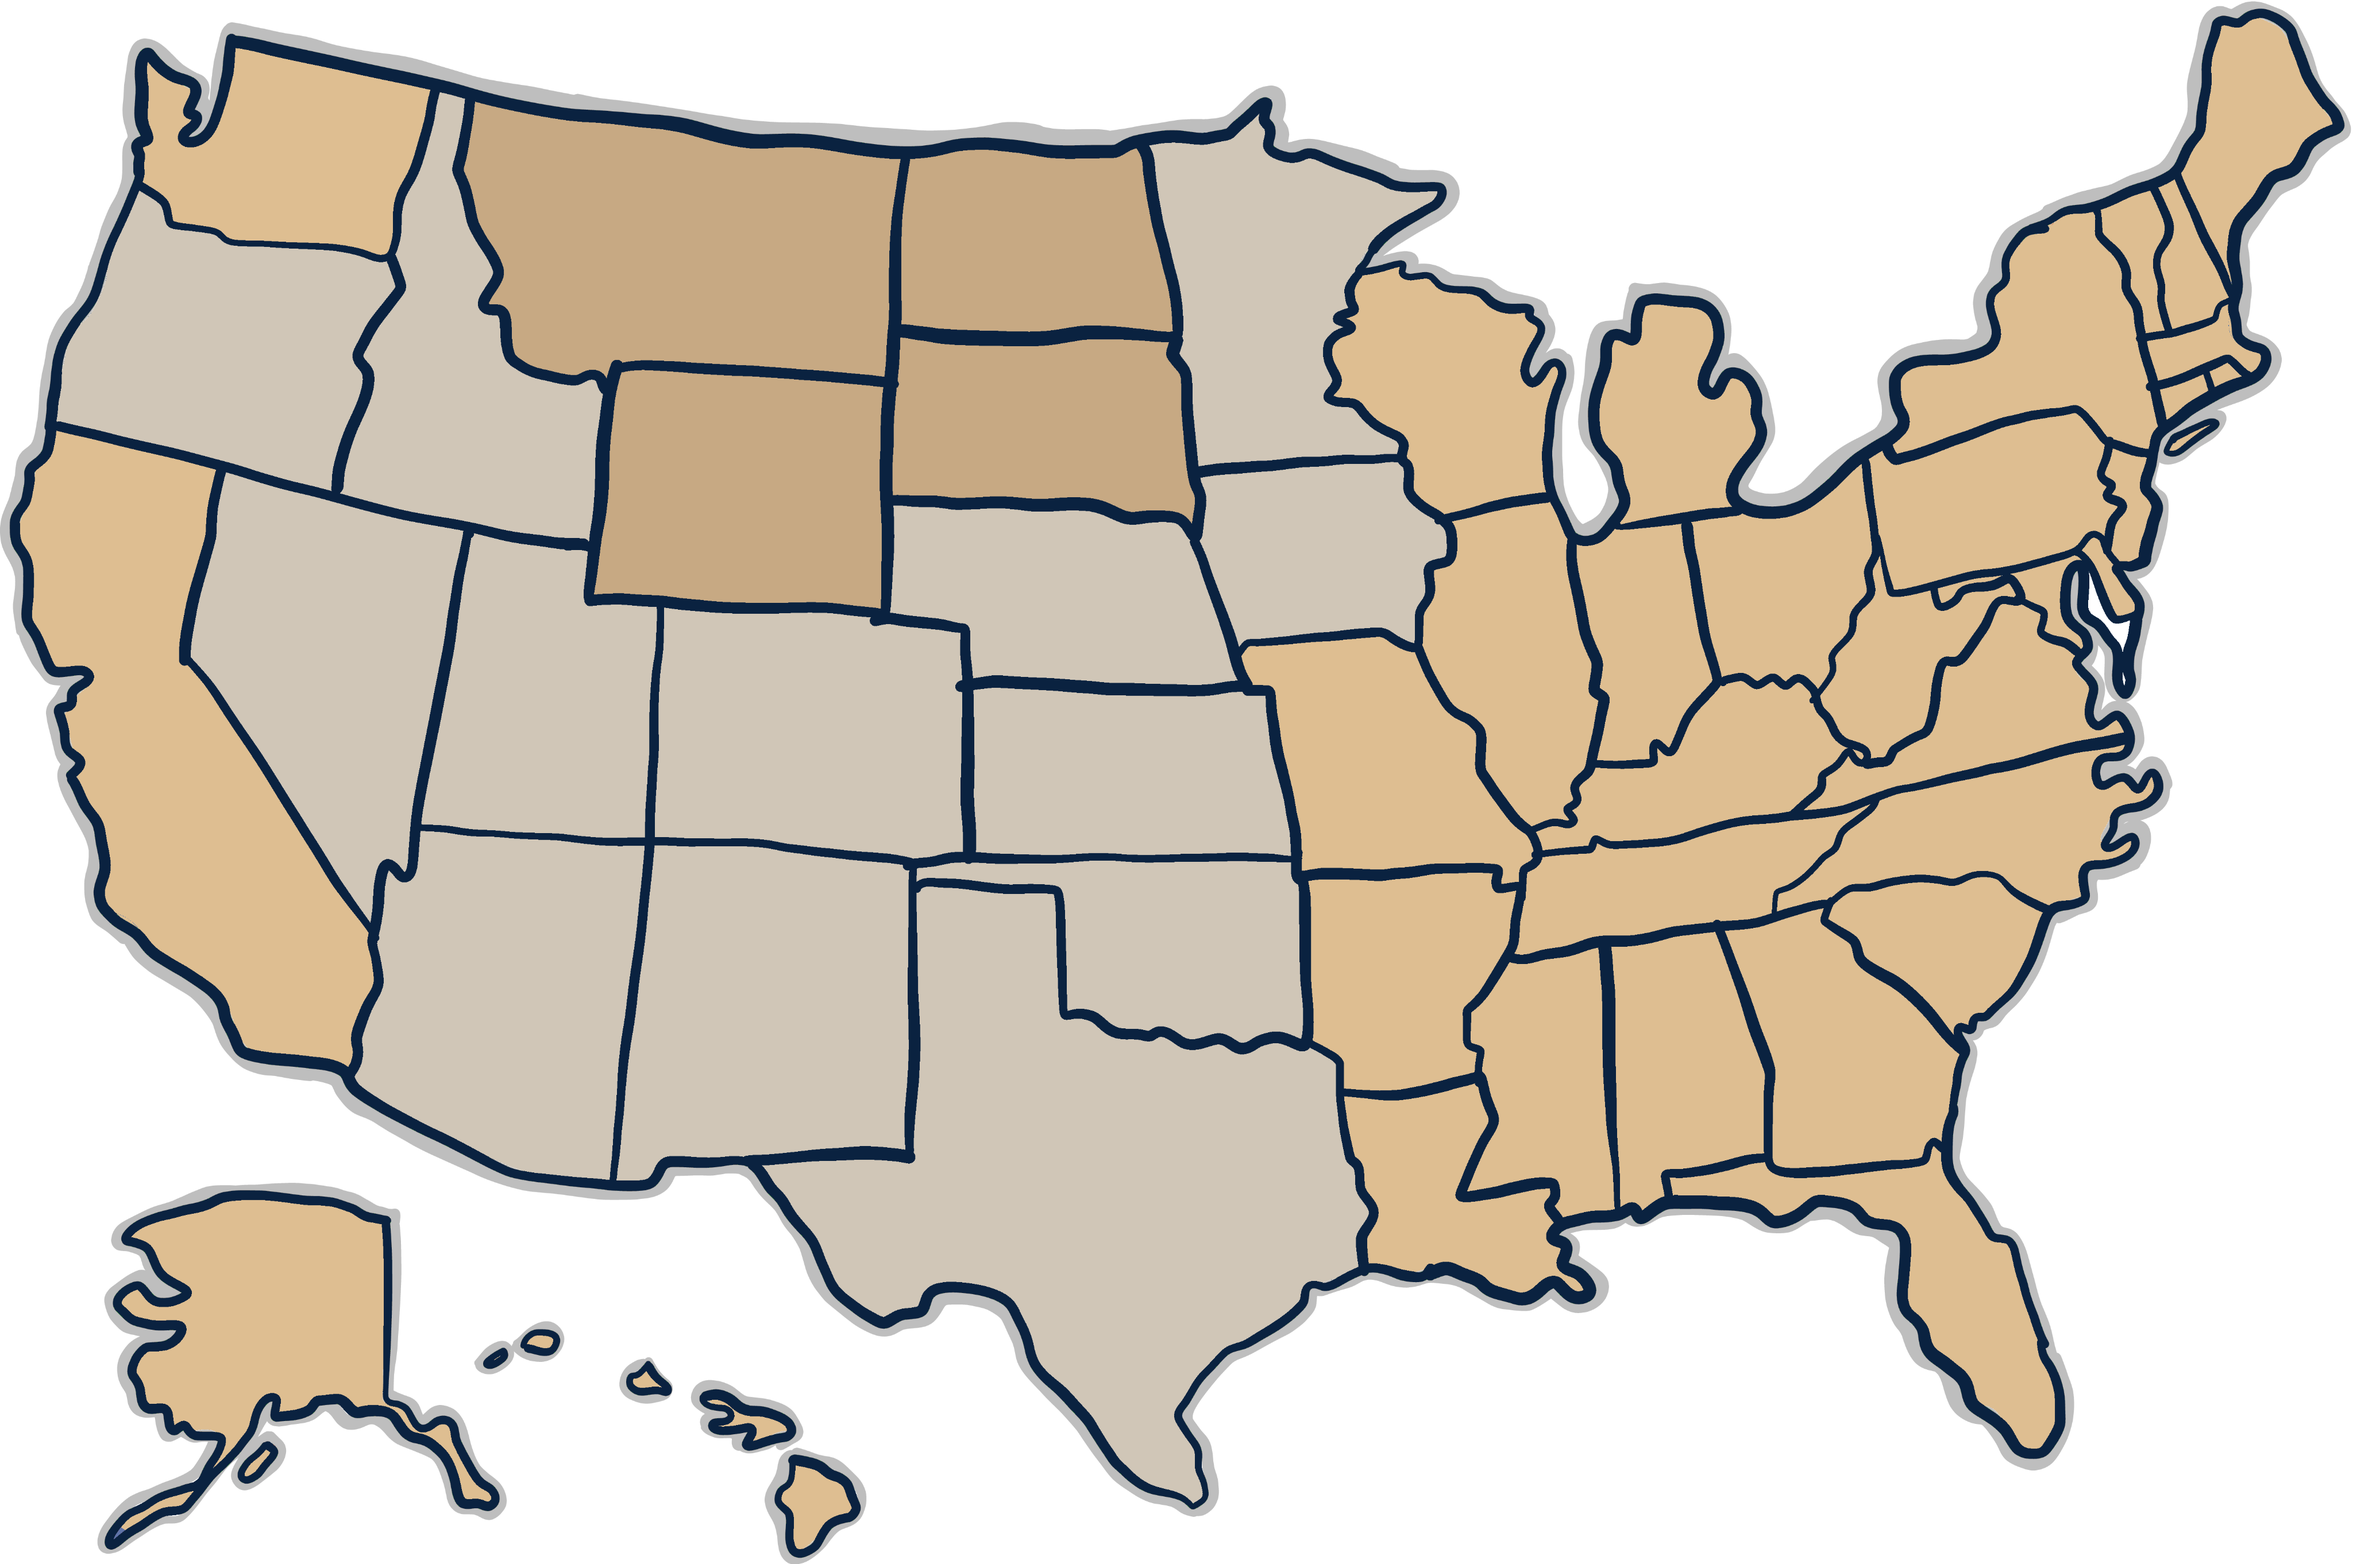
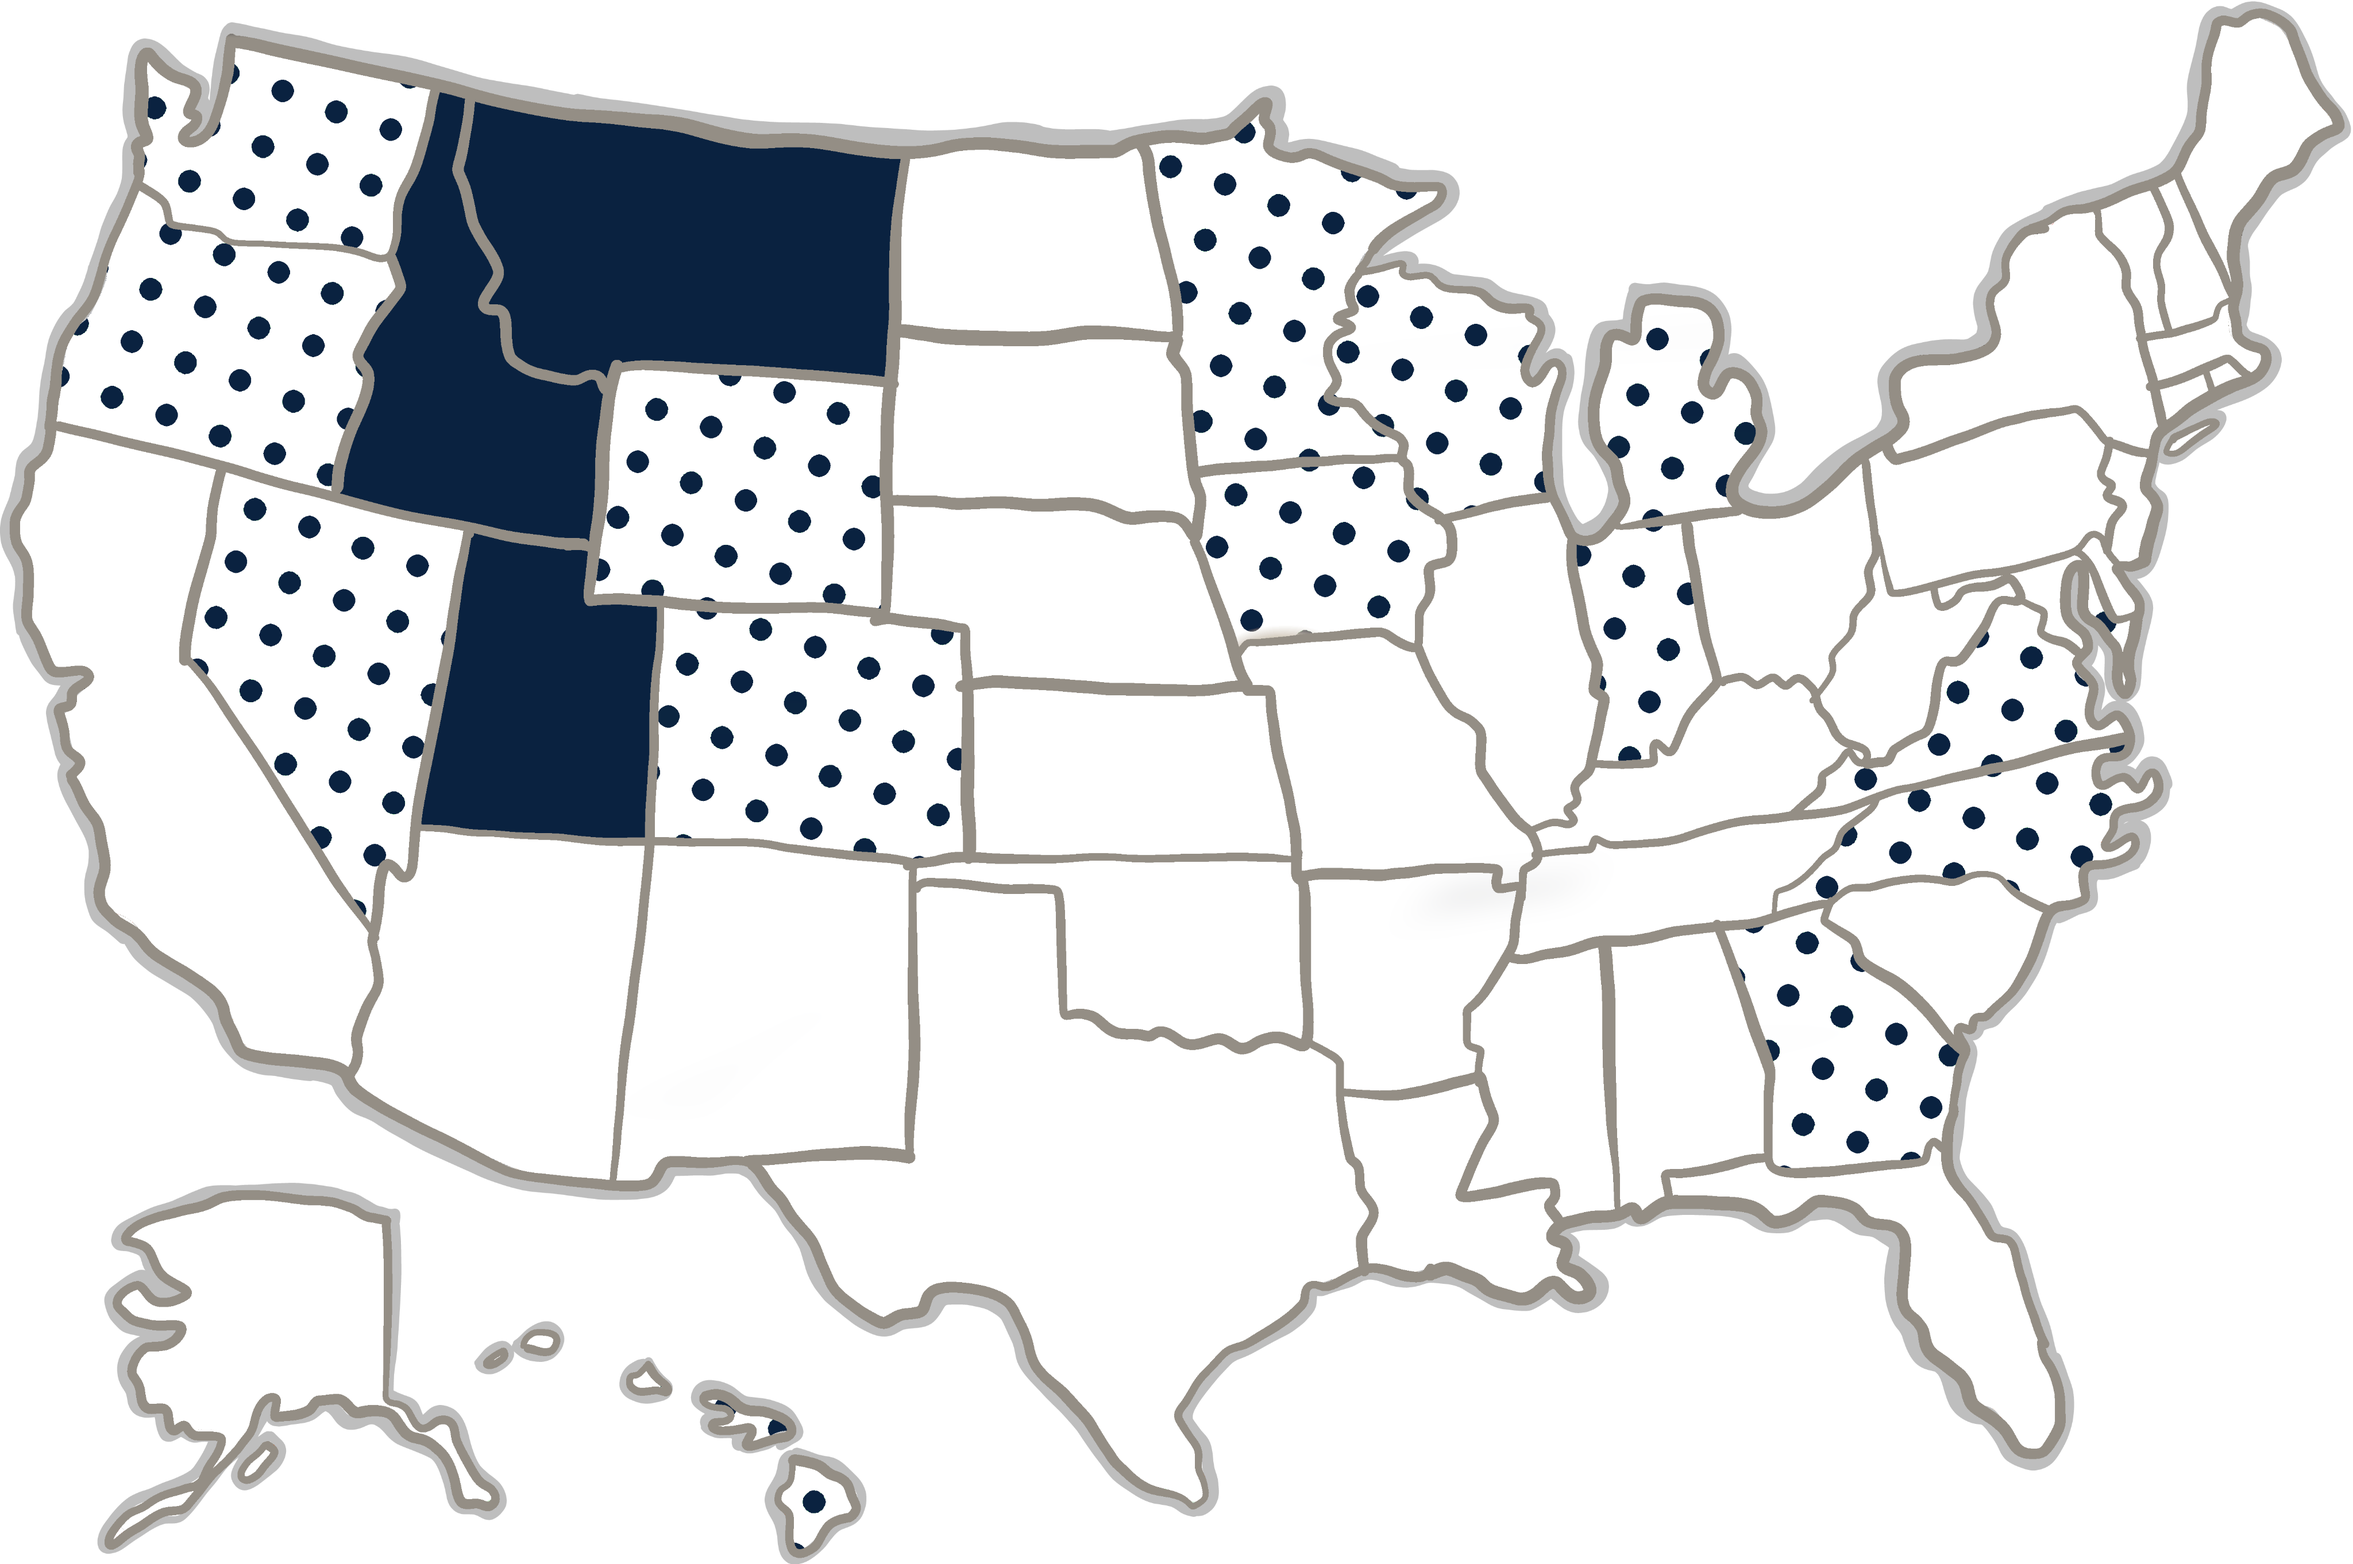
modified background for availability map

diff --git a/app/components/layout/great-harvest-map-section/AvailabilityMapSection.tsx b/app/components/layout/great-harvest-map-section/AvailabilityMapSection.tsx
@@ -18,13 +18,13 @@ export default function AvailabilityMapSection() {
 
 	return (
 		<>
-			<section className="bg-wheat-extra-light  w-full">
+			<section className="bg-[linear-gradient(rgba(0,0,0,0.2),rgba(0,0,0,0.2)),url('/images/wheat-silo.jpg')] bg-no-repeat bg-[left_25%_top_10%] bg-cover w-full">
 				<div className="flex flex-col gap-y-7.5 py-7.5">
 					<div>
-						<h2 className="text-[48px] font-medium text-center text-brand-blue drop-shadow-lg pb-[20px]">
+						<h2 className="text-[48px] font-bold text-center text-brand-blue drop-shadow-lg pb-[20px]">
 							Ripe for Harvesting
 						</h2>
-						<p className="text-[20px] px-6 text-center text-brand-blue">
+						<p className="text-[20px] px-6 text-center font-ghPlain text-brand-blue">
 							Which neighborhood will you share
 							Great Harvest with?
 						</p>
@@ -40,20 +40,20 @@ export default function AvailabilityMapSection() {
 					</div>
 					<div className="mx-auto grid gap-y-2.5">
 						<div className="flex">
-							<div className="w-7 h-7 rounded-full bg-wheat-medium mr-2.5"></div>
-							<p className="text-lg">
+							<div className="w-7 h-7 rounded-full bg-white bg-cover mr-2.5"></div>
+							<p className="text-lg font-ghSimpleBold">
 								High Availability
 							</p>
 						</div>
 						<div className="flex">
-							<div className="w-7 h-7 rounded-full bg-light-tan mr-2.5"></div>
-							<p className="text-lg">
+							<div className="w-7 h-7 rounded-full bg-[url('/decorative/dots.png')] bg-cover mr-2.5"></div>
+							<p className="text-lg font-ghSimpleBold">
 								Mixed Availability
 							</p>
 						</div>
 						<div className="flex">
-							<div className="w-7 h-7 rounded-full bg-wheat-dark mr-2.5"></div>
-							<p className="text-lg">
+							<div className="w-7 h-7 rounded-full bg-brand-blue mr-2.5"></div>
+							<p className="text-lg font-ghSimpleBold">
 								Low Availability
 							</p>
 						</div>
